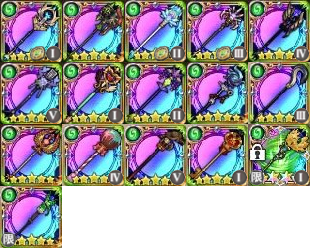
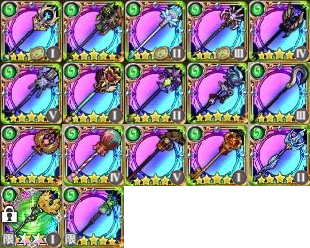
Update

Changed region(s): [[0.0, 0.7339, 0.4065, 1.0], [0.7839, 0.4798, 1.0, 0.7621]]

diff --git a/docs/list-weapons.md b/docs/list-weapons.md
@@ -147,6 +147,7 @@ EQ | Name | Slot | Auto | Special
 <img src="https://raw.githubusercontent.com/caelumff/bdfeguides/master/icons/KNG4-12.jpg" width="60" alt="Sword"> | <a href="list-names.md#-valentines-2019">Choco</a> | 4 |  -  | Command 2<br>Aggro<br>
 <img src="https://raw.githubusercontent.com/caelumff/bdfeguides/master/icons/KNG4-13.jpg" width="60" alt="Sword"> | <a href="list-names.md#-dress-up">Dress Up</a> | 5 |  -  | Limit Break 3<br><img src="https://caelum.s-ul.eu/7tZLFGPP.png" width="25" alt="Slot Effect"> Phalanx 1<br>
 <img src="https://raw.githubusercontent.com/caelumff/bdfeguides/master/icons/KNG4-14.jpg" width="60" alt="Sword"> | <a href="list-names.md#-wonderland">Wonderland</a> | 1 |  -  | Uplift 2<br>Limit Break 2<br>Regen 2<br><img src="https://caelum.s-ul.eu/7tZLFGPP.png" width="25" alt="Slot Effect"> Dueling 1<br>
+<img src="https://raw.githubusercontent.com/caelumff/bdfeguides/master/icons/KNG4-15.jpg" width="60" alt="Sword"> | <a href="list-names.md#-seven-seas">Sea</a> | 2 |  -  | Testudo 2<br>Allies Regen 2<br><img src="https://caelum.s-ul.eu/7tZLFGPP.png" width="25" alt="Slot Effect"> Phalanx 1<br>
 <img src="https://raw.githubusercontent.com/caelumff/bdfeguides/master/icons/Chocobo1.jpg" width="60" alt="Sword"> | **[LIMITED]** <a href="list-names.md#-final-fantasy-brave-exvius">Chocobo</a> | 1 |  -  | HP Up<br>Regen 1<br>
 <img src="https://raw.githubusercontent.com/caelumff/bdfeguides/master/icons/Rinne1.jpg" width="60" alt="Sword"> | **[LIMITED]** <a href="list-names.md#-2nd-anniversary">Rinne</a> | 0 |  -  | Dueling 3<br>
 
@@ -232,6 +233,7 @@ EQ | Name | Slot | Auto | Special
 <img src="https://raw.githubusercontent.com/caelumff/bdfeguides/master/icons/BLM4-12.jpg" width="60" alt="Rod"> | <a href="list-names.md#-valentines-2019">Lollipop</a> | 4 |  -  | Limit Break 3<br>
 <img src="https://raw.githubusercontent.com/caelumff/bdfeguides/master/icons/BLM4-13.jpg" width="60" alt="Rod"> | <a href="list-names.md#-dress-up">Dress Up</a> | 5 | AoE<br> | Empower 2<br><img src="https://caelum.s-ul.eu/7tZLFGPP.png" width="25" alt="Slot Effect"> Limit Break 1<br>
 <img src="https://raw.githubusercontent.com/caelumff/bdfeguides/master/icons/BLM4-14.jpg" width="60" alt="Rod"> | <a href="list-names.md#-wonderland">Wonderland</a> | 1 |  -  | Trance<br><img src="https://caelum.s-ul.eu/7tZLFGPP.png" width="25" alt="Slot Effect"> Critical 1<br>
+<img src="https://raw.githubusercontent.com/caelumff/bdfeguides/master/icons/BLM4-15.jpg" width="60" alt="Rod"> | <a href="list-names.md#-seven-seas">Sea</a> | 2 |  -  | Haste 2<br>Reload Minus<br><img src="https://caelum.s-ul.eu/7tZLFGPP.png" width="25" alt="Slot Effect"> Limit Break 1<br>
 <img src="https://raw.githubusercontent.com/caelumff/bdfeguides/master/icons/Chocobo2.jpg" width="60" alt="Rod"> | **[LIMITED]** <a href="list-names.md#-final-fantasy-brave-exvius">Chocobo</a> | 1 | AoE<br> | Concentrate 2<br>
 <img src="https://raw.githubusercontent.com/caelumff/bdfeguides/master/icons/Rinne2.jpg" width="60" alt="Rod"> | **[LIMITED]** <a href="list-names.md#-2nd-anniversary">Rinne</a> | 0 |  -  | Critical 3<br>
 
@@ -317,6 +319,7 @@ EQ | Name | Slot | Auto | Special
 <img src="https://raw.githubusercontent.com/caelumff/bdfeguides/master/icons/WHM4-12.jpg" width="60" alt="Book"> | <a href="list-names.md#-valentines-2019">Choco</a> | 4 | Buff<br> | 2 Row<br>HP/BP Up<br><img src="https://caelum.s-ul.eu/7tZLFGPP.png" width="25" alt="Slot Effect"> BP Recovery<br>
 <img src="https://raw.githubusercontent.com/caelumff/bdfeguides/master/icons/WHM4-13.jpg" width="60" alt="Book"> | <a href="list-names.md#-dress-up">Dress Up</a> | 5 | Attack<br> | Attack<br>Mono Brave/Default 1<br>Mono Quick 2<br>
 <img src="https://raw.githubusercontent.com/caelumff/bdfeguides/master/icons/WHM4-14.jpg" width="60" alt="Book"> | <a href="list-names.md#-wonderland">Wonderland</a> | 1 | 2 Row<br> | 2 Row Heal<br>Mono Revive<br>Mono PA/PD/SP Up<br><img src="https://caelum.s-ul.eu/7tZLFGPP.png" width="25" alt="Slot Effect"> Self Proud 1<br>
+<img src="https://raw.githubusercontent.com/caelumff/bdfeguides/master/icons/WHM4-15.jpg" width="60" alt="Book"> | <a href="list-names.md#-seven-seas">Sea</a> | 2 |  -  | Heal<br>MA/MD/SP Up<br>Buff Extend<br><img src="https://caelum.s-ul.eu/7tZLFGPP.png" width="25" alt="Slot Effect"> Self Brave 1<br>
 <img src="https://raw.githubusercontent.com/caelumff/bdfeguides/master/icons/Chocobo3.jpg" width="60" alt="Book"> | **[LIMITED]** <a href="list-names.md#-final-fantasy-brave-exvius">Chocobo</a> | 1 |  -  | Heal<br>Brave 1<br>Default 1<br>
 <img src="https://raw.githubusercontent.com/caelumff/bdfeguides/master/icons/Rinne3.jpg" width="60" alt="Book"> | **[LIMITED]** <a href="list-names.md#-2nd-anniversary">Rinne</a> | 0 |  -  | Heal<br>Brave 2<br>BP Recovery<br>
 
@@ -402,6 +405,7 @@ EQ | Name | Slot | Auto | Special
 <img src="https://raw.githubusercontent.com/caelumff/bdfeguides/master/icons/THF4-12.jpg" width="60" alt="Dagger"> | <a href="list-names.md#-valentines-2019">Fondue</a> | 4 | Fast 2 Hit<br>Aim 100%<br>AWK Boost<br> | Dagger Stance<br><img src="https://caelum.s-ul.eu/7tZLFGPP.png" width="25" alt="Slot Effect"> Row Quick 1<br>
 <img src="https://raw.githubusercontent.com/caelumff/bdfeguides/master/icons/THF4-13.jpg" width="60" alt="Dagger"> | <a href="list-names.md#-dress-up">Dress Up</a> | 5 |  -  | Assault 3<br>Cleanse<br><img src="https://caelum.s-ul.eu/7tZLFGPP.png" width="25" alt="Slot Effect"> Shadow 1<br>
 <img src="https://raw.githubusercontent.com/caelumff/bdfeguides/master/icons/THF4-14.jpg" width="60" alt="Dagger"> | <a href="list-names.md#-wonderland">Wonderland</a> | 1 | 3 Hit<br> | 5 Hit Nuke<br>PA/PD Up<br><img src="https://caelum.s-ul.eu/7tZLFGPP.png" width="25" alt="Slot Effect"> Assault 1<br>
+<img src="https://raw.githubusercontent.com/caelumff/bdfeguides/master/icons/THF4-15.jpg" width="60" alt="Dagger"> | <a href="list-names.md#-seven-seas">Sea</a> | 2 |  -  | Assault 2<br>Ranbu 2<br><img src="https://caelum.s-ul.eu/7tZLFGPP.png" width="25" alt="Slot Effect"> Shadow 1<br>
 <img src="https://raw.githubusercontent.com/caelumff/bdfeguides/master/icons/Chocobo4.jpg" width="60" alt="Dagger"> | **[LIMITED]** <a href="list-names.md#-final-fantasy-brave-exvius">Chocobo</a> | 1 |  -  | Shadow 1<br>
 <img src="https://raw.githubusercontent.com/caelumff/bdfeguides/master/icons/Rinne4.jpg" width="60" alt="Dagger"> | **[LIMITED]** <a href="list-names.md#-2nd-anniversary">Rinne</a> | 0 |  -  | Dodge 3<br>
 
@@ -487,6 +491,7 @@ EQ | Name | Slot | Auto | Special
 <img src="https://raw.githubusercontent.com/caelumff/bdfeguides/master/icons/RNG4-12.jpg" width="60" alt="Bow"> | <a href="list-names.md#-valentines-2019">Candy</a> | 4 |  -  | Wind Chaser 2<br><img src="https://caelum.s-ul.eu/7tZLFGPP.png" width="25" alt="Slot Effect"> Debuff Extend<br>
 <img src="https://raw.githubusercontent.com/caelumff/bdfeguides/master/icons/RNG4-13.jpg" width="60" alt="Bow"> | <a href="list-names.md#-dress-up">Dress Up</a> | 5 |  -  | Dispel<br>Cage of Curse<br><img src="https://caelum.s-ul.eu/7tZLFGPP.png" width="25" alt="Slot Effect"> Hawkeye 1<br>
 <img src="https://raw.githubusercontent.com/caelumff/bdfeguides/master/icons/RNG4-14.jpg" width="60" alt="Bow"> | <a href="list-names.md#-wonderland">Wonderland</a> | 1 |  -  | Bleed2<br>Poison to Damage<br><img src="https://caelum.s-ul.eu/7tZLFGPP.png" width="25" alt="Slot Effect"> Slow 1<br>
+<img src="https://raw.githubusercontent.com/caelumff/bdfeguides/master/icons/RNG4-15.jpg" width="60" alt="Bow"> | <a href="list-names.md#-seven-seas">Sea</a> | 2 |  -  | Weakness 2<br>HP AbsorbRandom PA/PD/MA/MD Down<br>Random Slow 2<br>Random Slowcast 2<br>Random Wind Chaser 2<br><img src="https://caelum.s-ul.eu/7tZLFGPP.png" width="25" alt="Slot Effect"> Slow 1<br>
 <img src="https://raw.githubusercontent.com/caelumff/bdfeguides/master/icons/Chocobo5.jpg" width="60" alt="Bow"> | **[LIMITED]** <a href="list-names.md#-final-fantasy-brave-exvius">Chocobo</a> | 1 |  -  | Weakness 1<br>Forceless 1<br>
 <img src="https://raw.githubusercontent.com/caelumff/bdfeguides/master/icons/Rinne5.jpg" width="60" alt="Bow"> | **[LIMITED]** <a href="list-names.md#-2nd-anniversary">Rinne</a> | 0 | AoE<br> | AoE<br>Mono Weakness 3<br>
 

diff --git a/docs/list-weapons-jp.md b/docs/list-weapons-jp.md
@@ -90,6 +90,7 @@
 <img src="https://raw.githubusercontent.com/caelumff/bdfeguides/master/icons/KNG4-12.jpg" width="60" alt="大剣"> | 斬りチョコ | IV | - | 号令 II<br>敵視<br>
 <img src="https://raw.githubusercontent.com/caelumff/bdfeguides/master/icons/KNG4-13.jpg" width="60" alt="大剣"> | 神秘の大剣 | V | - | リミブレ III<br><img src="https://caelum.s-ul.eu/7tZLFGPP.png" width="25" alt="枠適正"> ファランクス I<br>
 <img src="https://raw.githubusercontent.com/caelumff/bdfeguides/master/icons/KNG4-14.jpg" width="60" alt="大剣"> | ダイナの剣 | I | - | 高揚 II<br>リミブレ II<br>リジェネ II<br><img src="https://caelum.s-ul.eu/7tZLFGPP.png" width="25" alt="枠適正"> デュエリング I<br>
+<img src="https://raw.githubusercontent.com/caelumff/bdfeguides/master/icons/KNG4-15.jpg" width="60" alt="大剣"> | シュリンプソード | II | - | テストゥド II<br>自分以外リジェネ II<br><img src="https://caelum.s-ul.eu/7tZLFGPP.png" width="25" alt="枠適正"> ファランクス I<br>
 <img src="https://raw.githubusercontent.com/caelumff/bdfeguides/master/icons/Chocobo1.jpg" width="60" alt="大剣"> | **[期間限定]** チョコボウィング | I | - | HPアップ<br>リジェネ I<br>
 <img src="https://raw.githubusercontent.com/caelumff/bdfeguides/master/icons/Rinne1.jpg" width="60" alt="大剣"> | **[期間限定]** 妖精の大剣 | 無 | - | デュエリング III<br>
 
@@ -175,6 +176,7 @@
 <img src="https://raw.githubusercontent.com/caelumff/bdfeguides/master/icons/BLM4-12.jpg" width="60" alt="ロッド"> | マジロリポップ | IV | - | リミブレ III<br>
 <img src="https://raw.githubusercontent.com/caelumff/bdfeguides/master/icons/BLM4-13.jpg" width="60" alt="ロッド"> | 飛翔の杖 | V | 全体<br> | エンパワー II<br><img src="https://caelum.s-ul.eu/7tZLFGPP.png" width="25" alt="枠適正"> リミブレ I<br>
 <img src="https://raw.githubusercontent.com/caelumff/bdfeguides/master/icons/BLM4-14.jpg" width="60" alt="ロッド"> | 不思議のカギ | I | - | トランス<br><img src="https://caelum.s-ul.eu/7tZLFGPP.png" width="25" alt="枠適正"> 会心 I<br>
+<img src="https://raw.githubusercontent.com/caelumff/bdfeguides/master/icons/BLM4-15.jpg" width="60" alt="ロッド"> | ドルフィンロッド | II | - | ヘイスト II<br>リロ減少<br><img src="https://caelum.s-ul.eu/7tZLFGPP.png" width="25" alt="枠適正"> リミブレ I<br>
 <img src="https://raw.githubusercontent.com/caelumff/bdfeguides/master/icons/Chocobo2.jpg" width="60" alt="ロッド"> | **[期間限定]** チョコボフェザー | I | 全体<br> | 集中 II<br>
 <img src="https://raw.githubusercontent.com/caelumff/bdfeguides/master/icons/Rinne2.jpg" width="60" alt="ロッド"> | **[期間限定]** キセキの杖 | 無 | - | 会心 III<br>
 
@@ -260,6 +262,7 @@
 <img src="https://raw.githubusercontent.com/caelumff/bdfeguides/master/icons/WHM4-12.jpg" width="60" alt="ブック"> | チョコアソート | IV | バフ<br> | 二列<br>最大HP/BPアップ<br><img src="https://caelum.s-ul.eu/7tZLFGPP.png" width="25" alt="枠適正"> BP回復<br>
 <img src="https://raw.githubusercontent.com/caelumff/bdfeguides/master/icons/WHM4-13.jpg" width="60" alt="ブック"> | 創造の写本 | V | 攻撃<br> | 攻撃<br>染めブレイブデフォルト I<br>染めクイック II<br>
 <img src="https://raw.githubusercontent.com/caelumff/bdfeguides/master/icons/WHM4-14.jpg" width="60" alt="ブック"> | インワンダーランド | I | 二列<br> | 二列回復<br>染め蘇生<br>染め物攻物防精神アップ<br><img src="https://caelum.s-ul.eu/7tZLFGPP.png" width="25" alt="枠適正"> 自身プラウド I<br>
+<img src="https://raw.githubusercontent.com/caelumff/bdfeguides/master/icons/WHM4-15.jpg" width="60" alt="ブック"> | 海底神秘の物語 | II | - | 回復<br>魔攻魔防精神アップ<br>バフ延長<br><img src="https://caelum.s-ul.eu/7tZLFGPP.png" width="25" alt="枠適正"> 自身ブレイブ I<br>
 <img src="https://raw.githubusercontent.com/caelumff/bdfeguides/master/icons/Chocobo3.jpg" width="60" alt="ブック"> | **[期間限定]** チョコボメモリア | I | - | 回復<br>ブレイブ I<br>デフォルト I<br>
 <img src="https://raw.githubusercontent.com/caelumff/bdfeguides/master/icons/Rinne3.jpg" width="60" alt="ブック"> | **[期間限定]** リンネのキセキ | 無 | - | 回復<br>ブレイブ II<br>BP回復<br>
 
@@ -345,6 +348,7 @@
 <img src="https://raw.githubusercontent.com/caelumff/bdfeguides/master/icons/THF4-12.jpg" width="60" alt="双剣"> | アラザンチョコフォンデュ | IV | 速い二段<br>必中<br>覚醒威力<br> | 双剣の構え<br><img src="https://caelum.s-ul.eu/7tZLFGPP.png" width="25" alt="枠適正"> 列クイック I<br>
 <img src="https://raw.githubusercontent.com/caelumff/bdfeguides/master/icons/THF4-13.jpg" width="60" alt="双剣"> | 絢爛の双剣 | V | - | アサルト III<br>デバフ全解除<br><img src="https://caelum.s-ul.eu/7tZLFGPP.png" width="25" alt="枠適正"> シャドウ I<br>
 <img src="https://raw.githubusercontent.com/caelumff/bdfeguides/master/icons/THF4-14.jpg" width="60" alt="双剣"> | 案内人の手袋 | I | 三段<br> | 五段 防御無視<br>物攻物防アップ<br><img src="https://caelum.s-ul.eu/7tZLFGPP.png" width="25" alt="枠適正"> アサルト I<br>
+<img src="https://raw.githubusercontent.com/caelumff/bdfeguides/master/icons/THF4-15.jpg" width="60" alt="双剣"> | シェルフィッシュダガー | II | - | アサルト II<br>Ranbu II<br><img src="https://caelum.s-ul.eu/7tZLFGPP.png" width="25" alt="枠適正"> シャドウ I<br>
 <img src="https://raw.githubusercontent.com/caelumff/bdfeguides/master/icons/Chocobo4.jpg" width="60" alt="双剣"> | **[期間限定]** チョコボクロウ | I | - | シャドウ I<br>
 <img src="https://raw.githubusercontent.com/caelumff/bdfeguides/master/icons/Rinne4.jpg" width="60" alt="双剣"> | **[期間限定]** ナンデストウ | 無 | - | みかわし III<br>
 
@@ -430,6 +434,7 @@
 <img src="https://raw.githubusercontent.com/caelumff/bdfeguides/master/icons/RNG4-12.jpg" width="60" alt="弓"> | アロアロキャンディ | IV | - | 風チェイサー II<br><img src="https://caelum.s-ul.eu/7tZLFGPP.png" width="25" alt="枠適正"> デバフ延長<br>
 <img src="https://raw.githubusercontent.com/caelumff/bdfeguides/master/icons/RNG4-13.jpg" width="60" alt="弓"> | 鮮麗の弓 | V | - | バフ全解除<br>呪いの檻<br><img src="https://caelum.s-ul.eu/7tZLFGPP.png" width="25" alt="枠適正"> ホークアイ I<br>
 <img src="https://raw.githubusercontent.com/caelumff/bdfeguides/master/icons/RNG4-14.jpg" width="60" alt="弓"> | 懐中弓時計 | I | - | ブリード<br>毒を追撃に<br><img src="https://caelum.s-ul.eu/7tZLFGPP.png" width="25" alt="枠適正"> スロウ I<br>
+<img src="https://raw.githubusercontent.com/caelumff/bdfeguides/master/icons/RNG4-15.jpg" width="60" alt="弓"> | 荒波の舵弓 | II | - | ウィークネス II<br>HP吸収ランダム 物攻物防魔攻魔防ダウン<br>ランダム スロウ II<br>ランダム スロウキャスト II<br>ランダム 風チェイサー II<br><img src="https://caelum.s-ul.eu/7tZLFGPP.png" width="25" alt="枠適正"> スロウ I<br>
 <img src="https://raw.githubusercontent.com/caelumff/bdfeguides/master/icons/Chocobo5.jpg" width="60" alt="弓"> | **[期間限定]** チョコボメナス | I | - | ウィークネス I<br>フォースレス I<br>
 <img src="https://raw.githubusercontent.com/caelumff/bdfeguides/master/icons/Rinne5.jpg" width="60" alt="弓"> | **[期間限定]** 妖精の弓 | 無 | 全体<br> | 全体<br>染めウィークネス III<br>
 
